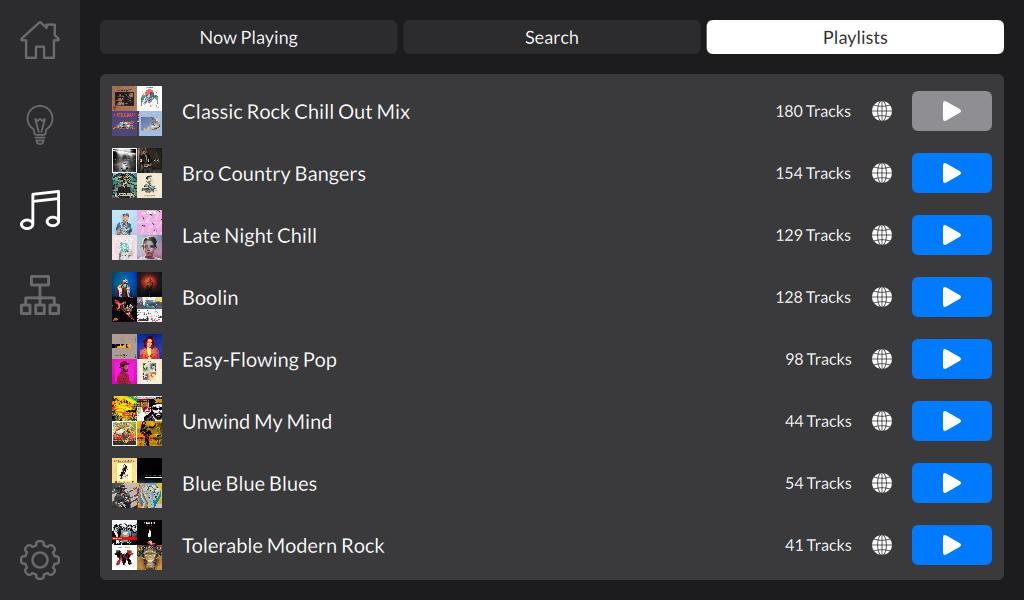
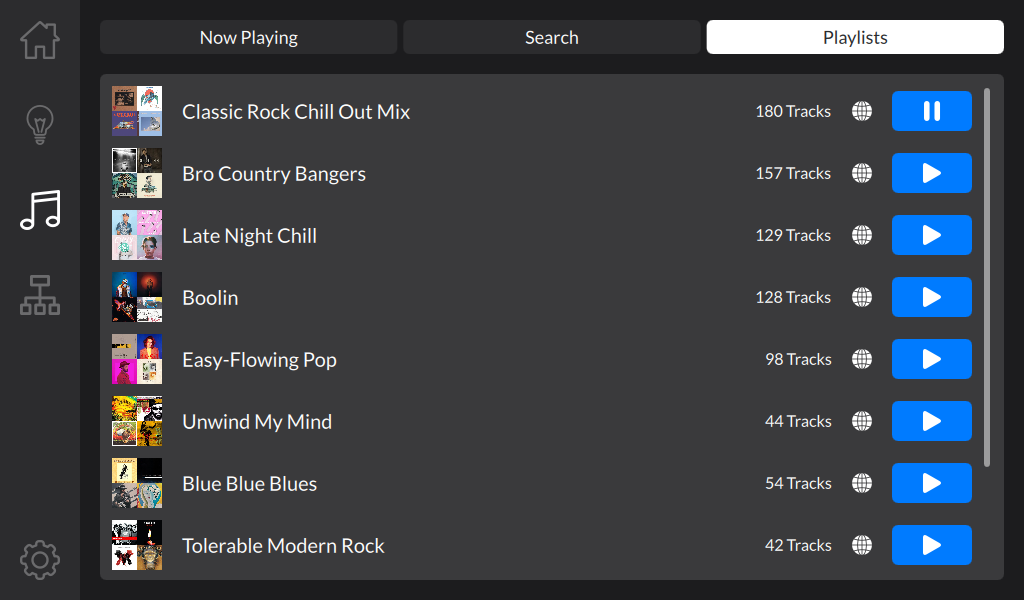
Allow playing/pausing the current playlist when looking at the list instead of just disabling the button.

Changed region(s): [[0.7188, 0.15, 0.9688, 0.84], [0.75, 0.87, 0.9688, 0.96]]

diff --git a/qml/TilePlaylists.qml b/qml/TilePlaylists.qml
@@ -66,11 +66,27 @@ Tile {
                 Layout.preferredHeight: 40
                 Layout.alignment: Qt.AlignVCenter
                 Layout.rightMargin: playlistsList.interactive ? VCMargin.medium : 0  // Leave room for the scrollbar
-                iconSource: "qrc:/images/play.svg"
-                enabled: VCHub.spotify.playlistName !== modelData[ "name" ]
+                iconSource: ( isCurrentPlaylist && VCHub.spotify.isPlaying ) ? "qrc:/images/pause.svg"
+                                                                             : "qrc:/images/play.svg"
+
+                readonly property bool isCurrentPlaylist: VCHub.spotify.playlistName === modelData[ "name" ]
 
                 onClicked: {
-                    VCHub.spotify.play( modelData[ "uri" ] )
+                    if ( isCurrentPlaylist )
+                    {
+                        if ( VCHub.spotify.isPlaying )
+                        {
+                            VCHub.spotify.pause()
+                        }
+                        else
+                        {
+                            VCHub.spotify.play()
+                        }
+                    }
+                    else
+                    {
+                        VCHub.spotify.play( modelData[ "uri" ] )
+                    }
                     root.played()
                 }
             }
